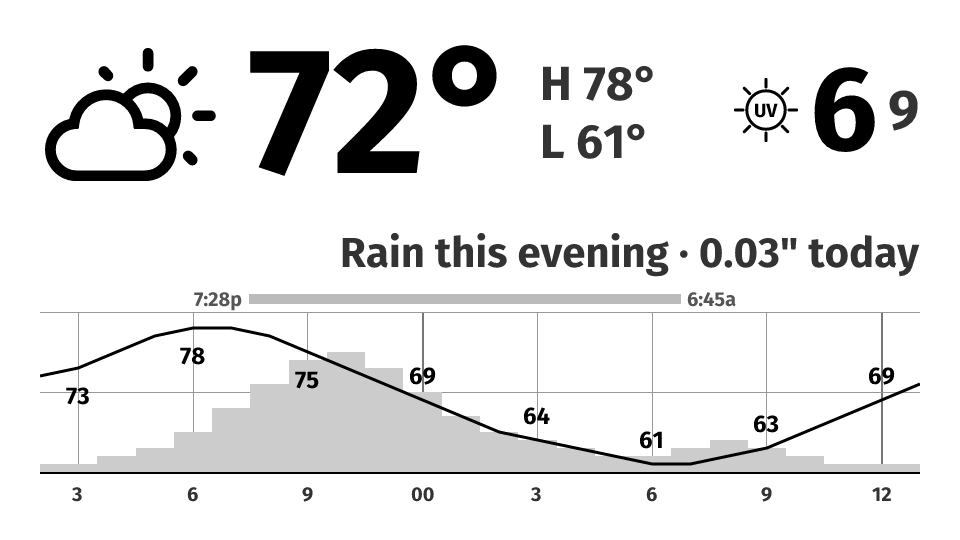
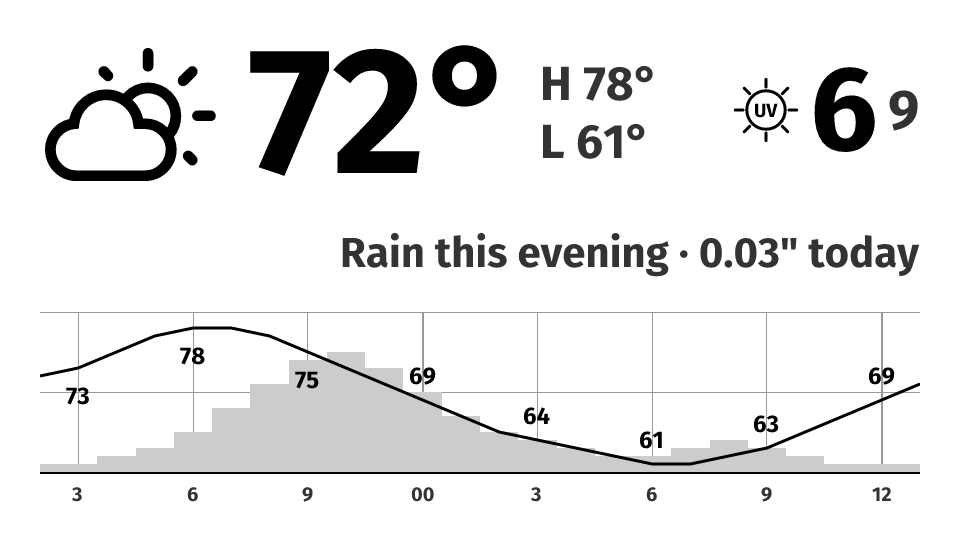
render: remove sunrise/sunset ribbon; unify gridline color (thickness-only major lines)
Two chart simplifications (bundled — interleaved in one file, shared preview regen):

- Remove the sunrise/sunset night ribbon and its time labels entirely, along with
  the now-dead sun constants, the sunMarks/nightSegments computation, and the
  formatClockLabel helper. The OWM provider transform is untouched, so the sun
  times (sunrise/sunset/_min) and is_day remain in the weather JSON for future use.

- Make the midnight/noon gridlines the same grey (#999) as the other gridlines
  instead of a darker #777, which clashed with the black temp labels crossing them.
  They stay 2px (vs 1px minor) so midnight/noon are still set apart by thickness.
  GRIDLINE_MAJOR/MINOR collapsed into a single GRIDLINE_COLOR.

Regenerate the day/night reference previews.

Changed region(s): [[0.1875, 0.5333, 0.7812, 0.5926]]

diff --git a/worker/renderer/src/layout.jsx b/worker/renderer/src/layout.jsx
@@ -325,16 +325,6 @@ function parseLocalHour(updated) {
   return m ? parseInt(m[1], 10) : 0;
 }
 
-// Format minutes-since-local-midnight as a compact marker label.
-// 405 → "6:45a", 1168 → "7:28p".
-function formatClockLabel(min) {
-  const h24 = Math.floor(min / 60);
-  const m = min % 60;
-  const suffix = h24 >= 12 ? 'p' : 'a';
-  const h = h24 % 12 === 0 ? 12 : h24 % 12;
-  return `${h}:${String(m).padStart(2, '0')}${suffix}`;
-}
-
 // Compute chart x positions and labels for every 3-hour clock boundary
 // (00, 03, 06, 09, 12, 15, 18, 21) in the window starting at nowHour.
 //
@@ -373,25 +363,6 @@ const PRECIP_THRESHOLD = 5;
 
 // Width of each hour-axis label tile, centered on its tick.
 const AXIS_LABEL_W = 50;
-
-// ─── night ribbon / sun markers ─────────────────────────────────────────────
-// The strip directly above the chart doubles as a "night ribbon": a solid bar
-// spanning the hours the sun is down. It can wrap into two segments (one at
-// each edge of the window) when "now" itself falls at night. The sunrise/sunset
-// time labels sit in the DAY portion of that same strip, just outside their
-// marker, so the strip costs no height beyond the old floating labels.
-const SUN_STRIP_H = 22;     // strip the sun time-labels occupy above the chart
-const RIBBON_H = 10;        // night-ribbon thickness
-const NIGHT_FILL = '#bbb';  // solid night fill — kept light/muted so it doesn't pull focus; a
-                            // solid fill reads heavier on the 4bpp panel than the same grey
-                            // would as a thin gridline
-const SUN_LABEL_COLOR = '#555'; // muted grey for the sunrise/sunset time labels (was pure black)
-// Vertical placement of the ribbon: true = flush with the chart's top edge
-// (its bottom sits on y=0); false = centered in the label strip, floating just
-// above the chart (aligned with the time labels). Flip to compare.
-const RIBBON_FLUSH = false;
-const SUN_LABEL_W = 58;     // width of a sun time-label tile
-const SUN_LABEL_PAD = 6;    // gap between a marker and its label
 
 // ─── shared axis labels (used by both chart types) ──────────────────────────
 
@@ -436,9 +407,9 @@ function AxisLabels({ chartW, updated, n }) {
 
 // ─── shared chart gridlines (vertical lines at 3-hour boundaries) ───────────
 
-const GRIDLINE_MAJOR = '#777';  // midnight, noon — darker than the rest so the day boundaries
-                                // are easy to find at a glance (orient "how far out" is that rain)
-const GRIDLINE_MINOR = '#999';  // every other 3-hour mark + horizontals
+const GRIDLINE_COLOR = '#999';  // all gridlines (verticals + horizontals) share one grey; the
+                                // midnight/noon lines are set apart by thickness only, so no
+                                // darker colour clashes with the black temp labels crossing them
 
 function chartGridlines(chartW, chartH, updated, n, yTop, yBottom) {
   // yTop / yBottom define the drawable region within the chart; gridlines
@@ -456,7 +427,7 @@ function chartGridlines(chartW, chartH, updated, n, yTop, yBottom) {
       y1={y1}
       x2={x}
       y2={y2}
-      stroke={isMajor ? GRIDLINE_MAJOR : GRIDLINE_MINOR}
+      stroke={GRIDLINE_COLOR}
       strokeWidth={isMajor ? 2 : 1}
       shapeRendering="crispEdges"
     />
@@ -625,41 +596,6 @@ function ForecastChart({ data, hasRain, hasSnow }) {
     }
   }
 
-  // ── Sunrise/sunset markers ─────────────────────────────────────────
-  // The provider gives local clock times as minutes since midnight. Map
-  // each to an hour offset from nowH (the same reference the gridlines
-  // use) and then to an x via the shared slot/(n-1) mapping, so the dotted
-  // markers align with the grid. Times not in the data are skipped.
-  const sun = data.sun || {};
-  const sunMarks = [
-    { key: 'sunrise', min: sun.sunrise_min },
-    { key: 'sunset', min: sun.sunset_min },
-  ]
-    .filter((m) => Number.isFinite(m.min))
-    .map((m) => {
-      const offset = (((m.min / 60 - nowH) % 24) + 24) % 24;
-      return { key: m.key, x: (offset / (n - 1)) * chartW, label: formatClockLabel(m.min) };
-    });
-
-  // Night-ribbon segments. The sun is down *before* a sunrise and *after* a
-  // sunset, so each gap's day/night state is fixed by the marker that bounds it
-  // — no is_day flag needed, and the window's night wraps to two segments (one
-  // at each edge) automatically when "now" falls at night. x is clamped to the
-  // chart so a marker just past the right edge still closes its segment.
-  const sortedSun = sunMarks
-    .map((m) => ({ ...m, x: Math.max(0, Math.min(chartW, m.x)) }))
-    .sort((a, b) => a.x - b.x);
-  const nightSegments = [];
-  let segStart = 0;
-  for (const mark of sortedSun) {
-    if (mark.key === 'sunrise' && mark.x > segStart) nightSegments.push([segStart, mark.x]);
-    segStart = mark.x;
-  }
-  const lastSun = sortedSun[sortedSun.length - 1];
-  if (lastSun && lastSun.key === 'sunset' && chartW > lastSun.x) {
-    nightSegments.push([lastSun.x, chartW]);
-  }
-
   return (
     <div
       style={{
@@ -722,7 +658,7 @@ function ForecastChart({ data, hasRain, hasSnow }) {
                   y1={y}
                   x2={chartW}
                   y2={y}
-                  stroke={GRIDLINE_MINOR}
+                  stroke={GRIDLINE_COLOR}
                   strokeWidth={1}
                   shapeRendering="crispEdges"
                 />
@@ -778,22 +714,6 @@ function ForecastChart({ data, hasRain, hasSnow }) {
             shapeRendering="crispEdges"
           />
         </svg>
-        {/* Night ribbon: solid bar(s) in the strip above the chart marking the
-            hours the sun is down, flush with the chart's top edge. The dotted
-            markers drop from its edges; the time labels sit in the day gaps. */}
-        {nightSegments.map(([x0, x1], i) => (
-          <div
-            key={`night-${i}`}
-            style={{
-              position: 'absolute',
-              left: x0,
-              top: RIBBON_FLUSH ? -RIBBON_H : -(SUN_STRIP_H + RIBBON_H) / 2,
-              width: x1 - x0,
-              height: RIBBON_H,
-              backgroundColor: NIGHT_FILL,
-            }}
-          />
-        ))}
         {/* Temperature labels at each 3-hour gridline. Each sits on the
             curve's vertex for that hour (shared x-mapping), placed above or
             below the line per the midY rule so it never clips an edge. A label
@@ -821,39 +741,6 @@ function ForecastChart({ data, hasRain, hasSnow }) {
               }}
             >
               {String(t)}
-            </div>
-          );
-        })}
-        {/* Sunrise/sunset time labels — placed in the DAY portion of the strip,
-            just outside the marker (before a sunset, after a sunrise) so they
-            never sit on top of the night ribbon, vertically centered to it. */}
-        {sunMarks.map(({ key, x, label }) => {
-          const isSunset = key === 'sunset';
-          const boxLeft = isSunset ? x - SUN_LABEL_PAD - SUN_LABEL_W : x + SUN_LABEL_PAD;
-          // Only drop a label that would overrun the RIGHT edge — that's the
-          // sunrise label when sunrise is ~a full day out (far-off, low-value
-          // data). A left-overrunning sunset label is intentionally NOT hidden:
-          // the imminent sunset time is worth keeping even when it spills past
-          // the left edge. (Left-edge handling is left to revisit later.)
-          if (boxLeft + SUN_LABEL_W > chartW) return null;
-          return (
-            <div
-              key={`sun-lbl-${key}`}
-              style={{
-                position: 'absolute',
-                left: boxLeft,
-                top: -SUN_STRIP_H,
-                width: SUN_LABEL_W,
-                height: SUN_STRIP_H,
-                fontSize: 20,
-                fontWeight: 700,
-                color: SUN_LABEL_COLOR,
-                display: 'flex',
-                alignItems: 'center',
-                justifyContent: isSunset ? 'flex-end' : 'flex-start',
-              }}
-            >
-              {label}
             </div>
           );
         })}